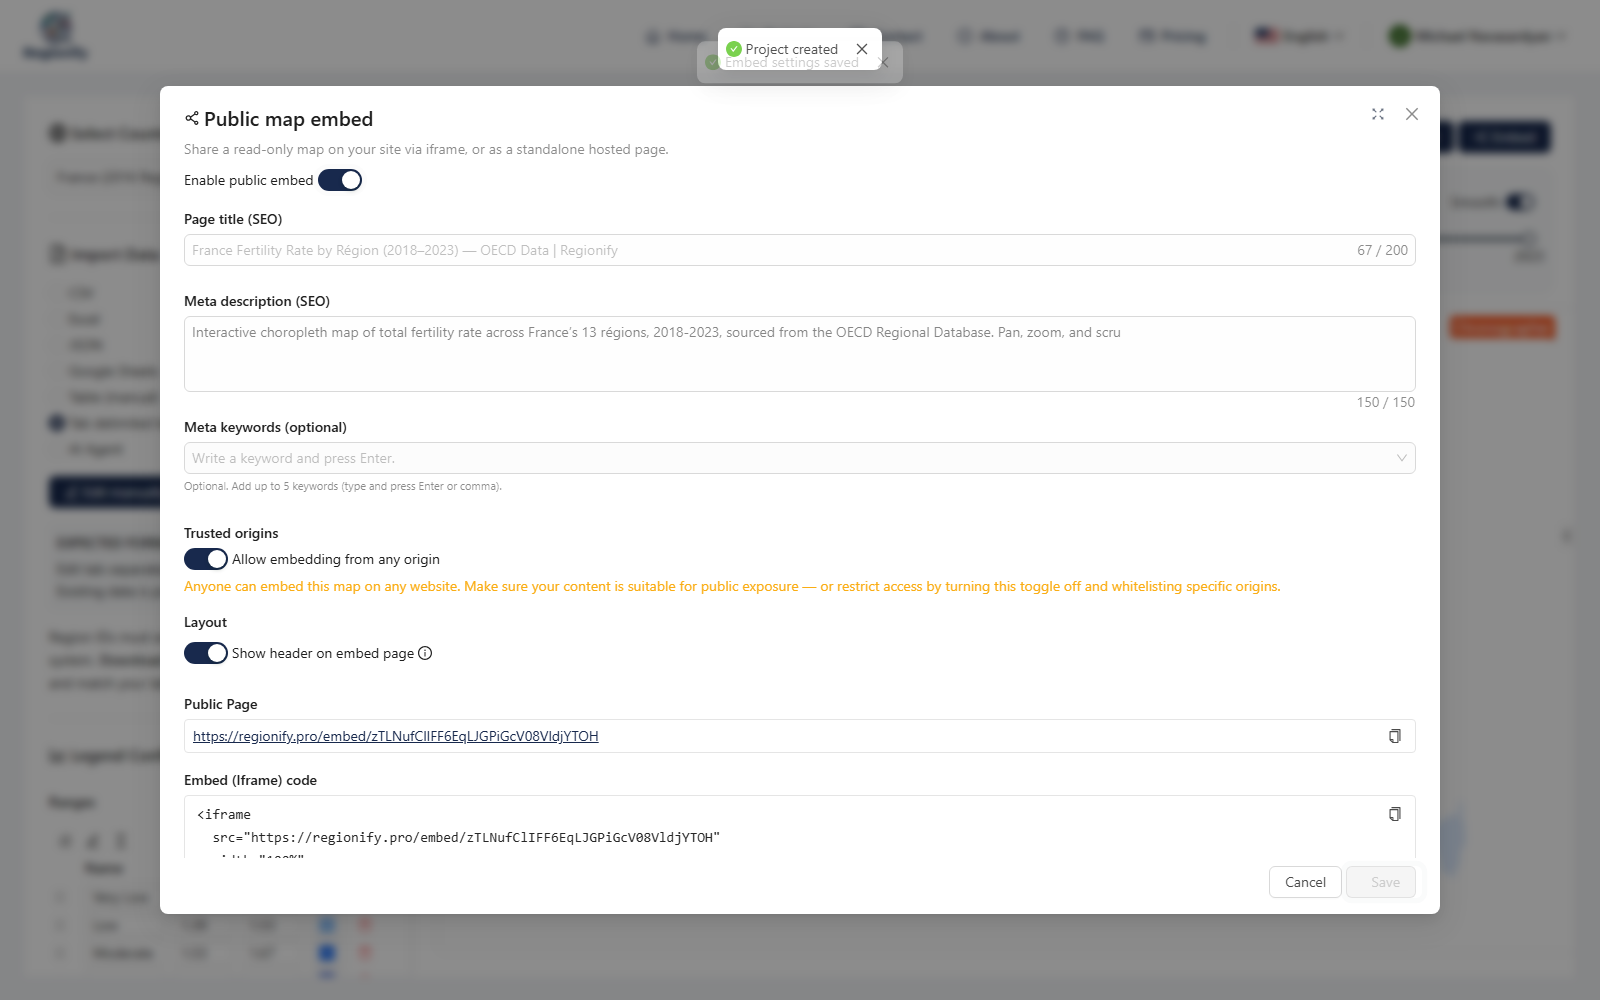
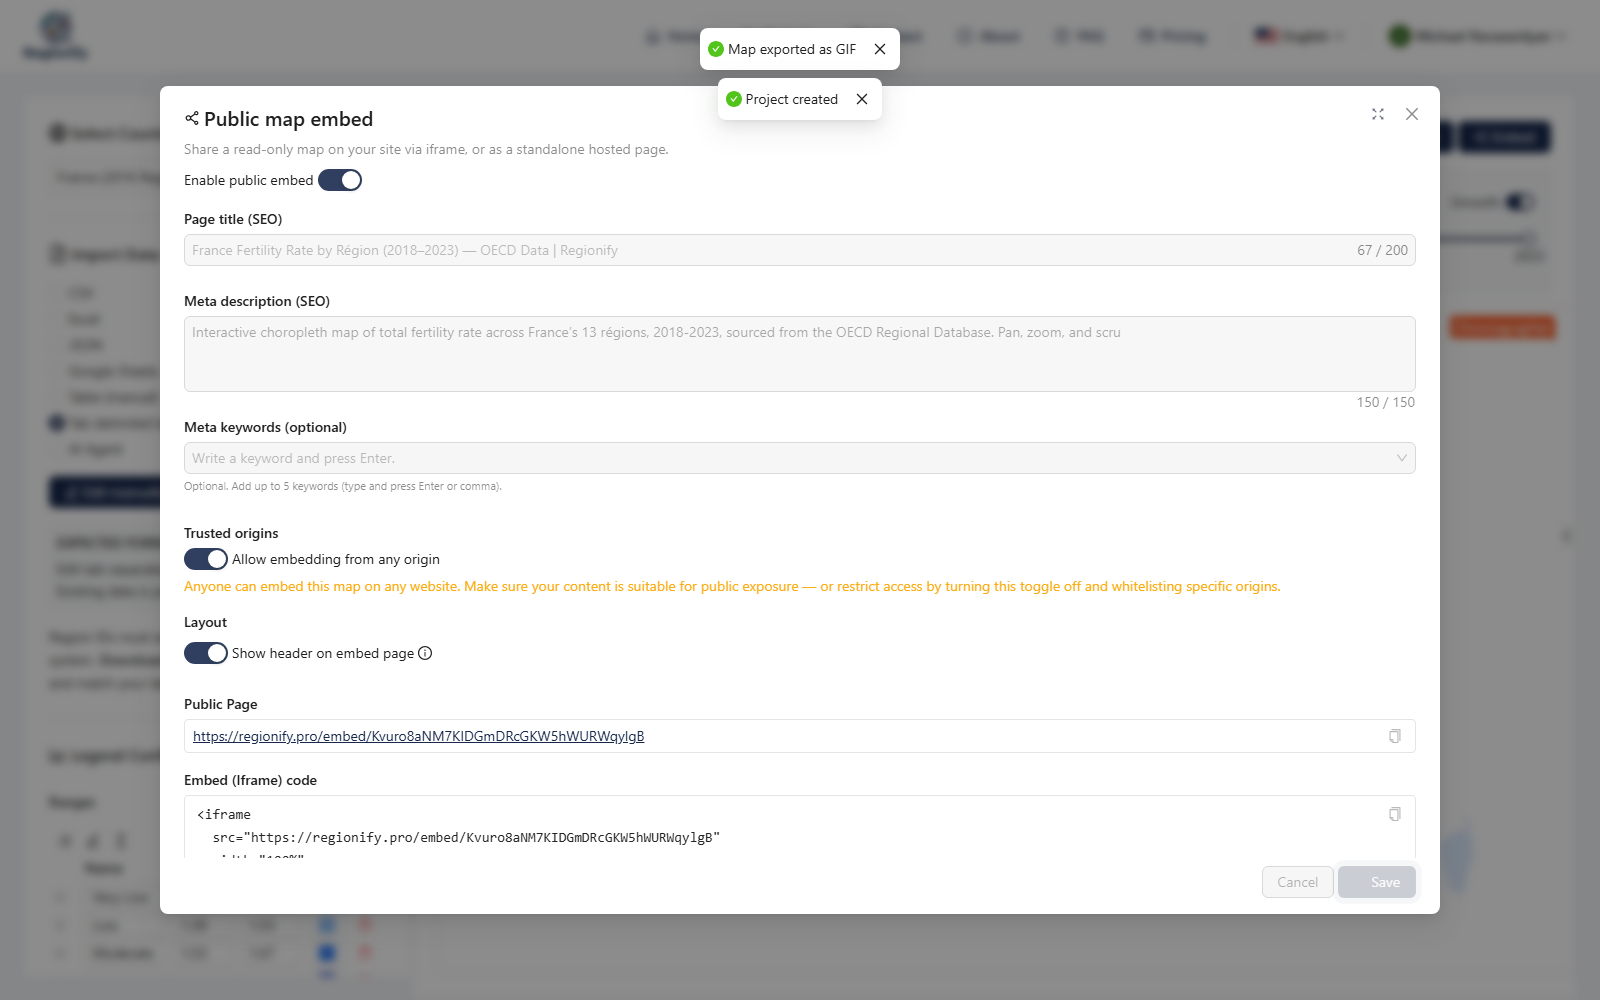
feat(marketing): maintain two live embeds (animated + static) for embed-guide
The article's Step 1 now claims that historical data makes the embed
itself animated, not just a static snapshot — back that claim with a
real comparison instead of just text. Restructure the asset generator
to build and save two separate projects:

- "France — OECD Fertility Rate (2018–2023)" — full time series, the
  animated embed used throughout the walkthrough (unchanged from
  before, still produces the GIF export and Step 3/4 screenshots).
- "France — OECD Fertility Rate (2023 Snapshot)" — single-year import,
  its own SVG export and its own public embed.

Previously the single project was temporarily downgraded to static
data mid-run (to get a clean SVG export) and then re-imported back to
the full series before saving/embedding — which meant only one embed
could ever be live at a time. Two independent projects let both stay
live simultaneously so the article can link to each.

Generalizes deleteExistingProjectIfPresent/saveProject/setupEmbed to
take a project name and SEO copy as parameters instead of hardcoded
constants, and adds a captureModalScreenshot flag so only the animated
project's embed-setup screenshot is taken (the static project only
needs its URL, not new article images).

Also fixes a docstring left orphaned above saveProject from an earlier
revert (described a function that no longer exists).

diff --git a/marketing/scripts/playwright-oecd-france-fertility.ts b/marketing/scripts/playwright-oecd-france-fertility.ts
@@ -1,10 +1,11 @@
 /**
  * One-off asset generator for the "embeddable choropleth map" Medium article
- * (docs/marketing/medium/embed-guide.md). Builds a real Regionify project from
+ * (docs/marketing/medium/embed-guide.md). Builds two real Regionify projects from
  * OECD regional fertility data for France's 13 modern régions (2018-2023,
- * fetched from the OECD SDMX API — see docs/marketing/assets/data/oecd-fertility-france.csv),
- * then produces the two "drop-in embed" deliverables the article demonstrates
- * (SVG, animated GIF) plus a live public iframe embed, screenshotting each step.
+ * fetched from the OECD SDMX API — see docs/marketing/assets/data/oecd-fertility-france.csv)
+ * — one with the full time series, one with only the 2023 snapshot — so the article can
+ * link to a live animated embed and a live static embed side by side, screenshotting
+ * each step along the way.
  *
  * Deliberately picks "France (2016 Regions)" (not the default "France" map,
  * which uses the old 22-région split) because the OECD dataset's TL2 region
@@ -21,21 +22,24 @@
  * silently renders as "No Data" with no warning.
  *
  * Steps:
- *   1. /projects/new → pick "France (2016 Regions)"
- *   2. Switch to "Tab delimited text (manual)" import, clear the sample data, paste the
- *      OECD fertility time series, screenshot the pasted data
- *   3. Expand the legend to 5 named ranges (Very Low → Very High), normalize them to
- *      the data's real min/max, title the legend, jump the timeline to 2023, screenshot
- *      the styled product view
- *   4. Export animated GIF (all years) with a transparent background
- *   5. Paste a real, year-less 2023-only snapshot (NOT "Switch to static data" — that
- *      button unconditionally discards the dataset and fills it with random sample
- *      values instead of snapshotting the current frame; see `applySwitchToStatic` in
- *      the app's ImportDataPanel.tsx), re-normalize, export SVG
- *   6. Re-import the full OECD time series (NOT "Switch to dynamic data" — same
- *      destructive-toggle problem in the other direction), save the project, enable
- *      public embed with SEO metadata, screenshot the live embed page, record the
- *      embed URL + code
+ *   Animated project ("France — OECD Fertility Rate (2018–2023)"):
+ *     1. /projects/new → pick "France (2016 Regions)"
+ *     2. Switch to "Tab delimited text (manual)" import, clear the sample data, paste the
+ *        OECD fertility time series, screenshot the pasted data
+ *     3. Expand the legend to 5 named ranges (Very Low → Very High), normalize them to
+ *        the data's real min/max, title the legend, jump the timeline to 2023, screenshot
+ *        the styled product view
+ *     4. Export animated GIF (all years) with a transparent background
+ *     5. Save the project, enable public embed with SEO metadata, screenshot the embed
+ *        setup and the live embed page, record the embed URL + iframe code
+ *   Static project ("France — OECD Fertility Rate (2023 Snapshot)"):
+ *     6. /projects/new → pick "France (2016 Regions)" again
+ *     7. Paste a real, year-less 2023-only snapshot (NOT "Switch to static data" — that
+ *        button unconditionally discards the dataset and fills it with random sample
+ *        values instead of snapshotting the current frame; see `applySwitchToStatic` in
+ *        the app's ImportDataPanel.tsx), style it the same way, export SVG
+ *     8. Save the project, enable public embed with its own SEO metadata, record the
+ *        embed URL
  *
  * Run:
  *   pnpm --filter @regionify/marketing exec tsx scripts/playwright-oecd-france-fertility.ts
@@ -87,10 +91,22 @@ const DATA_CSV_PATH = join(
 );
 
 const COUNTRY_LABEL = 'France (2016 Regions)';
-const PROJECT_NAME = 'France — OECD Fertility Rate (2018–2023)';
 const LEGEND_TITLE = 'Total Fertility Rate';
 const REFERENCE_YEAR = '2023';
 const VIEWPORT = { width: 1600, height: 1000 } as const;
+
+// Two separate saved projects/embeds so the article can link to a static, single-year
+// embed alongside the animated, multi-year one — rather than one project that gets
+// downgraded to static and back, which would leave only one live at a time.
+const ANIMATED_PROJECT_NAME = 'France — OECD Fertility Rate (2018–2023)';
+const ANIMATED_SEO_TITLE = 'France Fertility Rate by Région (2018–2023) — OECD Data | Regionify';
+const ANIMATED_SEO_DESCRIPTION =
+  'Interactive choropleth map of total fertility rate across France’s 13 régions, 2018-2023, sourced from the OECD Regional Database. Pan, zoom, and scrub the timeline.';
+
+const STATIC_PROJECT_NAME = 'France — OECD Fertility Rate (2023 Snapshot)';
+const STATIC_SEO_TITLE = 'France Fertility Rate by Région (2023) — OECD Data | Regionify';
+const STATIC_SEO_DESCRIPTION =
+  'Choropleth map of total fertility rate across France’s 13 régions in 2023, sourced from the OECD Regional Database.';
 
 /** Default legend has 3 bins (Low/Medium/High) — add 2 more so real variation across
  * France's 13 régions doesn't get flattened into three broad buckets, then rename all 5
@@ -211,23 +227,23 @@ async function ensureEnglishProfile(context: BrowserContext): Promise<void> {
 }
 
 /**
- * Deletes a previously-generated "France — OECD Fertility Rate" project, if one exists,
- * so re-running this script to refresh stale screenshots doesn't pile up duplicate
+ * Deletes a previously-generated project with the given name, if one exists, so
+ * re-running this script to refresh stale screenshots doesn't pile up duplicate
  * projects (and duplicate public embed URLs) on the account.
  */
-async function deleteExistingProjectIfPresent(page: Page): Promise<void> {
+async function deleteExistingProjectIfPresent(page: Page, projectName: string): Promise<void> {
   await page.goto(`${BASE_URL}/projects`);
   await page.waitForLoadState('networkidle', { timeout: 15_000 }).catch(() => {});
 
   const searchInput = page.getByPlaceholder('Search projects...');
   await searchInput.waitFor({ timeout: 15_000 });
-  await searchInput.fill(PROJECT_NAME);
+  await searchInput.fill(projectName);
   await page.waitForTimeout(500);
 
-  const card = page.locator('.ant-card').filter({ hasText: PROJECT_NAME }).first();
+  const card = page.locator('.ant-card').filter({ hasText: projectName }).first();
   const exists = await card.isVisible({ timeout: 3_000 }).catch(() => false);
   if (!exists) {
-    log('✓ no pre-existing project to delete');
+    log(`✓ no pre-existing "${projectName}" project to delete`);
     return;
   }
 
@@ -236,7 +252,7 @@ async function deleteExistingProjectIfPresent(page: Page): Promise<void> {
   await modal.waitFor({ timeout: 10_000 });
   await modal.getByRole('button', { name: 'Delete' }).click();
   await modal.waitFor({ state: 'hidden', timeout: 15_000 });
-  log(`✓ deleted pre-existing "${PROJECT_NAME}" project`);
+  log(`✓ deleted pre-existing "${projectName}" project`);
 }
 
 // ---------------------------------------------------------------------------
@@ -772,27 +788,27 @@ async function exportSvg(page: Page): Promise<void> {
   await closeModal(page);
 }
 
-/**
- * Rasterizes the actual downloaded SVG file for the article's "static export" visual,
- * rather than screenshotting the live editor DOM — the editor overlays on-screen-only
- * chrome (the plan-tier ribbon, panel-collapse arrow) that isn't part of the real export.
- */
-async function saveProject(page: Page): Promise<void> {
+async function saveProject(page: Page, projectName: string): Promise<void> {
   await page.getByRole('button', { name: 'Save' }).click();
   const modal = page.locator('.ant-modal').filter({ hasText: 'Save Project' });
   await modal.waitFor({ timeout: 10_000 });
 
   const nameInput = modal.locator('[data-i18n-key="visualizer.saveModalPlaceholder"]');
   await nameInput.click({ clickCount: 3 });
-  await nameInput.fill(PROJECT_NAME);
+  await nameInput.fill(projectName);
 
   await page.getByRole('button', { name: 'Create' }).click();
   await page.waitForURL((url) => /\/projects\/[^/]+$/.test(url.pathname), { timeout: 15_000 });
   await page.waitForLoadState('networkidle', { timeout: 15_000 });
-  log(`✓ project saved as "${PROJECT_NAME}"`);
+  log(`✓ project saved as "${projectName}"`);
 }
 
-async function setupEmbed(page: Page): Promise<{ url: string; iframeCode: string }> {
+async function setupEmbed(
+  page: Page,
+  seoTitle: string,
+  seoDescription: string,
+  captureModalScreenshot: boolean,
+): Promise<{ url: string; iframeCode: string }> {
   await page.getByRole('button', { name: 'Embed' }).click();
   const modal = page.locator('.ant-modal:visible').filter({ hasText: 'Public map embed' });
   await modal.waitFor({ timeout: 10_000 });
@@ -801,13 +817,11 @@ async function setupEmbed(page: Page): Promise<{ url: string; iframeCode: string
 
   const titleInput = modal.locator('input#seoTitle');
   await titleInput.clear();
-  await titleInput.fill('France Fertility Rate by Région (2018–2023) — OECD Data | Regionify');
+  await titleInput.fill(seoTitle);
 
   const descInput = modal.locator('textarea#seoDescription');
   await descInput.clear();
-  await descInput.fill(
-    'Interactive choropleth map of total fertility rate across France’s 13 régions, 2018-2023, sourced from the OECD Regional Database. Pan, zoom, and scrub the timeline.',
-  );
+  await descInput.fill(seoDescription);
 
   await switchOn(modal.locator('button#allowedOriginsAllowAll[role="switch"]'));
 
@@ -831,14 +845,16 @@ async function setupEmbed(page: Page): Promise<{ url: string; iframeCode: string
 
   log(`✓ embed URL: ${url}`);
 
-  // Full-screen (not just the modal element) screenshot for the article's Step 3 visual
-  // — grabbed before closing, with the generated iframe code already visible, so it
-  // shows the modal in context over the actual app rather than a cropped dialog.
-  await page.screenshot({
-    path: join(UI_SCREENSHOTS_DIR, 'oecd-fertility-embed-modal.png'),
-    fullPage: true,
-  });
-  log('✓ embed modal screenshot saved');
+  if (captureModalScreenshot) {
+    // Full-screen (not just the modal element) screenshot for the article's Step 3
+    // visual — grabbed before closing, with the generated iframe code already visible,
+    // so it shows the modal in context over the actual app rather than a cropped dialog.
+    await page.screenshot({
+      path: join(UI_SCREENSHOTS_DIR, 'oecd-fertility-embed-modal.png'),
+      fullPage: true,
+    });
+    log('✓ embed modal screenshot saved');
+  }
 
   await closeModal(page);
   return { url, iframeCode: iframeCode.trim() };
@@ -892,7 +908,8 @@ async function main(): Promise<void> {
   page.on('pageerror', (err) => log(`pageerror: ${err.message}`));
 
   try {
-    await deleteExistingProjectIfPresent(page);
+    // ---- Animated project: full 2018–2023 time series (the walkthrough project) ----
+    await deleteExistingProjectIfPresent(page, ANIMATED_PROJECT_NAME);
     await createProject(page);
     await importOecdData(page, tabDelimitedData);
     await addAndNameRanges(page);
@@ -908,39 +925,54 @@ async function main(): Promise<void> {
     });
     log('✓ styled map screenshot saved');
 
-    // Clean exports: transparent background, panels collapsed.
+    // Clean export: transparent background, panels collapsed.
     await setTransparentBackground(page);
     await closeRightPanel(page);
     await ensureSaneMapExportFrame(page);
-
     await exportGif(page);
 
-    // Real single-year snapshot for the static export — NOT "Switch to static data",
-    // which discards the dataset and fills it with random sample values (see the note
-    // on importSingleYearStaticData).
+    await saveProject(page, ANIMATED_PROJECT_NAME);
+    const { url: animatedUrl, iframeCode } = await setupEmbed(
+      page,
+      ANIMATED_SEO_TITLE,
+      ANIMATED_SEO_DESCRIPTION,
+      true,
+    );
+    await screenshotEmbedPage(context, animatedUrl);
+
+    writeFileSync(join(OUTPUT_DIR, 'france-oecd-fertility-embed-url.txt'), animatedUrl);
+    writeFileSync(join(OUTPUT_DIR, 'france-oecd-fertility-embed-code.txt'), iframeCode);
+
+    // ---- Static project: single 2023 snapshot, no timeline ----
+    // A real year-less paste (NOT "Switch to static data", which discards the dataset
+    // and fills it with random sample values — see the note on importSingleYearStaticData)
+    // into its own separate project, so the static embed stays live independently of the
+    // animated one above rather than the two trading places in a single project.
+    await deleteExistingProjectIfPresent(page, STATIC_PROJECT_NAME);
+    await createProject(page);
     await importSingleYearStaticData(page, buildSingleYearTabDelimited(REFERENCE_YEAR));
+    await addAndNameRanges(page);
     await normalizeRanges(page);
+    await setLegendTitle(page, LEGEND_TITLE);
+
+    await setTransparentBackground(page);
+    await closeRightPanel(page);
     await ensureSaneMapExportFrame(page);
     await exportSvg(page);
 
-    // Re-import the same OECD data rather than clicking "Switch to dynamic data" —
-    // that toggle synthesizes a brand-new random sample timeline when no historical
-    // data is currently loaded (which is exactly the state right after a static-mode
-    // export), silently replacing the real 2018-2023 fertility series with placeholder
-    // numbers before it ever reaches Save/Embed. Re-importing restores the genuine data.
-    await importOecdData(page, tabDelimitedData, false);
-    await normalizeRanges(page);
-    await jumpTimelineToLastFrame(page);
+    await saveProject(page, STATIC_PROJECT_NAME);
+    const { url: staticUrl } = await setupEmbed(
+      page,
+      STATIC_SEO_TITLE,
+      STATIC_SEO_DESCRIPTION,
+      false,
+    );
 
-    await saveProject(page);
-    const { url, iframeCode } = await setupEmbed(page);
-    await screenshotEmbedPage(context, url);
-
-    writeFileSync(join(OUTPUT_DIR, 'france-oecd-fertility-embed-url.txt'), url);
-    writeFileSync(join(OUTPUT_DIR, 'france-oecd-fertility-embed-code.txt'), iframeCode);
+    writeFileSync(join(OUTPUT_DIR, 'france-oecd-fertility-static-embed-url.txt'), staticUrl);
 
     console.log(`\n✅  All done — assets saved to ${OUTPUT_DIR}`);
-    console.log(`    Embed URL: ${url}`);
+    console.log(`    Animated embed URL: ${animatedUrl}`);
+    console.log(`    Static embed URL:   ${staticUrl}`);
   } catch (err) {
     const shotPath = join(OUTPUT_DIR, '_debug-failure.png');
     await page.screenshot({ path: shotPath, fullPage: true }).catch(() => {});

diff --git a/docs/marketing/medium/embed-guide/embed-guide.md b/docs/marketing/medium/embed-guide/embed-guide.md
@@ -70,7 +70,7 @@ One thing to get right on paste: region ids need to match the map's own labels e
 
 ![Pasting the OECD fertility time series into Regionify's manual data-entry panel](oecd-fertility-import-panel.png)
 
-Because the dataset spans six years (2018–2023), Regionify automatically drops into **time-series mode** — the timeline scrubber above the map appears the moment it detects more than one time period per region. That's not just a Studio convenience: the same historical data carries through to the embed, so what you publish later isn't a frozen single-year map but an animated, interactive one that scrubs through every period right on the page you drop it into.
+Because the dataset spans six years (2018–2023), Regionify automatically drops into **time-series mode** — the timeline scrubber above the map appears the moment it detects more than one time period per region. That's not just a Studio convenience: the same historical data carries through to the embed, so what you publish later isn't a frozen single-year map but an animated, interactive one that scrubs through every period right on the page you drop it into. Compare a [static, single-year embed →](https://regionify.pro/embed/Q3RHUi5wYhzcc2JkKcvUj1IlV9hJs2d4?utm_source=medium&utm_medium=article&utm_campaign=embed-guide) with the [animated, multi-year embed →](https://regionify.pro/embed/Kvuro8aNM7KIDGmDRcGKW5hWURWqylgB?utm_source=medium&utm_medium=article&utm_campaign=embed-guide) used throughout the rest of this walkthrough.
 
 ### Step 2 — Style it
 
@@ -88,7 +88,7 @@ Regionify generates the snippet for you:
 
 ```html
 <iframe
-  src="https://regionify.pro/embed/zTLNufClIFF6EqLJGPiGcV08VldjYTOH"
+  src="https://regionify.pro/embed/Kvuro8aNM7KIDGmDRcGKW5hWURWqylgB"
   width="100%"
   height="560"
   style="border:0"
@@ -102,7 +102,7 @@ Copy that snippet into wherever your site accepts raw HTML — a Custom HTML blo
 
 Medium strips raw `<iframe>` tags from published posts, so here's what that snippet actually renders as on a page that allows it — full pan/zoom/hover, timeline included:
 
-[Open the live embed →](https://regionify.pro/embed/zTLNufClIFF6EqLJGPiGcV08VldjYTOH?utm_source=medium&utm_medium=article&utm_campaign=embed-guide)
+[Open the live embed →](https://regionify.pro/embed/Kvuro8aNM7KIDGmDRcGKW5hWURWqylgB?utm_source=medium&utm_medium=article&utm_campaign=embed-guide)
 
 ![Screenshot of the live public embed page for the France fertility map](oecd-fertility-embed-page.png)
 
@@ -132,12 +132,13 @@ Pick any map on [Regionify.pro](https://regionify.pro/?utm_source=medium&utm_med
 
 **Source data:** `docs/marketing/assets/data/oecd-fertility-france.csv` — OECD Regional Database, fertility rate (`FERT_RATIO`, `AGE=Total`), TL2 regions, France, 2018–2023. Fetched live from the OECD SDMX API (`OECD.CFE.EDS:DSD_REG_DEMO@DF_FERTILITY`).
 
-**Raw downloadable deliverables** (not used in this iframe-focused version of the article, but kept for cross-posts or a follow-up "other export formats" piece):
+**Two live projects/embeds back this article** — an animated one (full 2018–2023 time series, used in Steps 3–4's code sample and screenshots) and a static one (2023 only, linked from Step 1 for comparison). Raw downloadable deliverables (not used in this iframe-focused version of the article, but kept for cross-posts or a follow-up "other export formats" piece):
 
-- `docs/marketing/medium/embed-guide/france-oecd-fertility.svg` — full-resolution SVG (~60 KB)
-- `docs/marketing/medium/embed-guide/france-oecd-fertility-animation.gif` — full-quality GIF (~13 MB)
-- `docs/marketing/medium/embed-guide/france-oecd-fertility-embed-url.txt` — the live embed URL
-- `docs/marketing/medium/embed-guide/france-oecd-fertility-embed-code.txt` — the iframe snippet
+- `docs/marketing/medium/embed-guide/france-oecd-fertility.svg` — full-resolution SVG (~60 KB), from the static project
+- `docs/marketing/medium/embed-guide/france-oecd-fertility-animation.gif` — full-quality GIF (~13 MB), from the animated project
+- `docs/marketing/medium/embed-guide/france-oecd-fertility-embed-url.txt` — the animated project's live embed URL
+- `docs/marketing/medium/embed-guide/france-oecd-fertility-embed-code.txt` — the animated project's iframe snippet
+- `docs/marketing/medium/embed-guide/france-oecd-fertility-static-embed-url.txt` — the static project's live embed URL
 
 **Regenerating these assets:**
 
@@ -145,7 +146,7 @@ Pick any map on [Regionify.pro](https://regionify.pro/?utm_source=medium&utm_med
 pnpm --filter @regionify/marketing exec tsx scripts/playwright-oecd-france-fertility.ts
 ```
 
-Requires `marketing/.env` with `CLIENT_URL`, `REGIONIFY_EMAIL`, `REGIONIFY_PASSWORD` (Chronographer-tier account). The script deletes any pre-existing "France — OECD Fertility Rate (2018–2023)" project itself before creating a fresh one, so re-runs don't pile up duplicates.
+Requires `marketing/.env` with `CLIENT_URL`, `REGIONIFY_EMAIL`, `REGIONIFY_PASSWORD` (Chronographer-tier account). The script itself deletes any pre-existing "France — OECD Fertility Rate (2018–2023)" and "France — OECD Fertility Rate (2023 Snapshot)" projects before creating fresh ones, so re-runs don't pile up duplicates.
 
 ---
 
@@ -159,7 +160,7 @@ Requires `marketing/.env` with `CLIENT_URL`, `REGIONIFY_EMAIL`, `REGIONIFY_PASSW
 ## Compliance checklist (before Publish)
 
 - [ ] All 4 images inserted at their marked positions, each with alt text
-- [ ] Live embed URL tested in an incognito window before publishing
+- [ ] Both live embed URLs (static and animated) tested in an incognito window before publishing
 - [ ] UTM link (`embed-guide`) tested — shows up in analytics
 - [ ] No AI-tone giveaway phrases ("delve", "in the realm of", "furthermore", "it is important to note")
 - [ ] Article read out loud once
